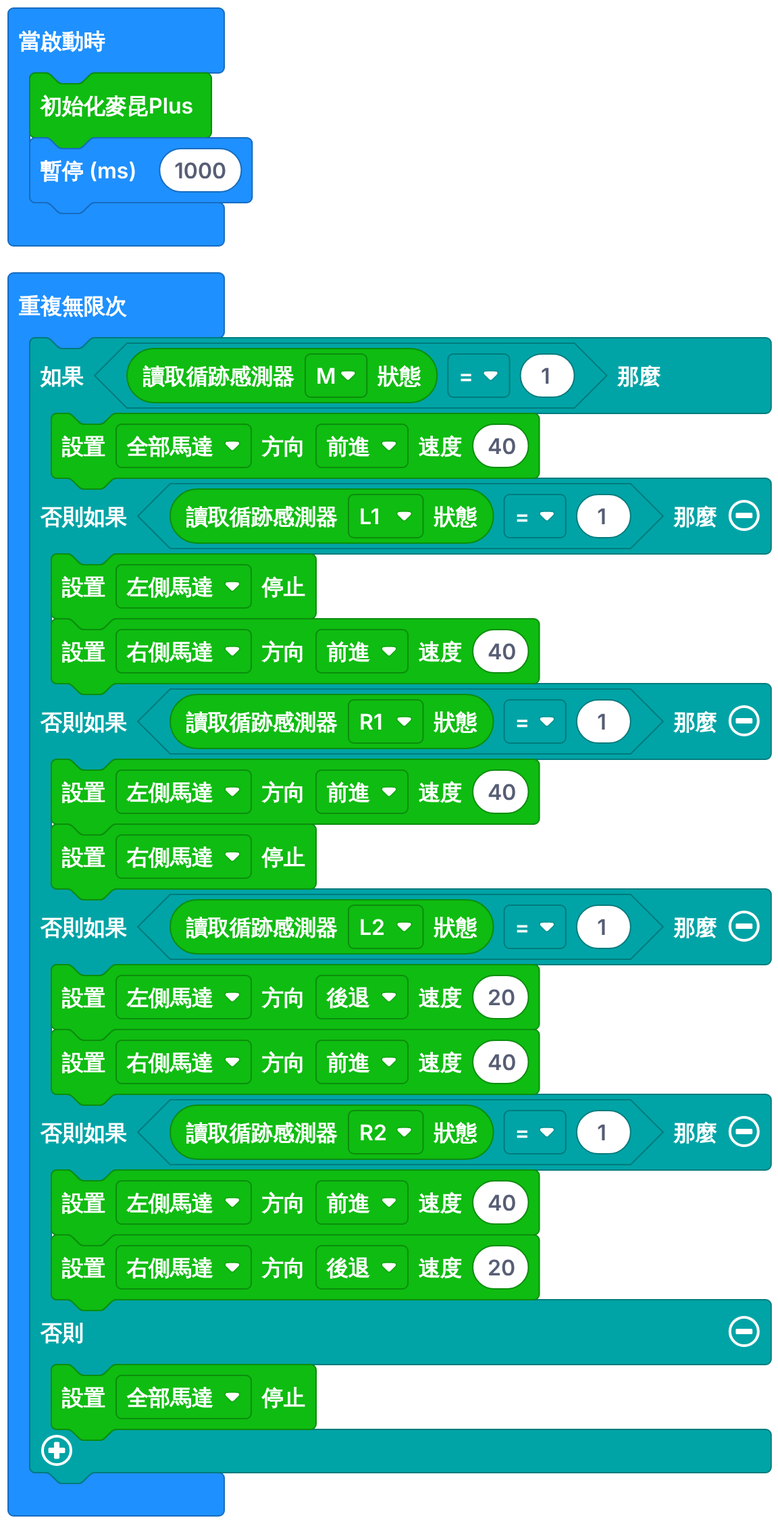
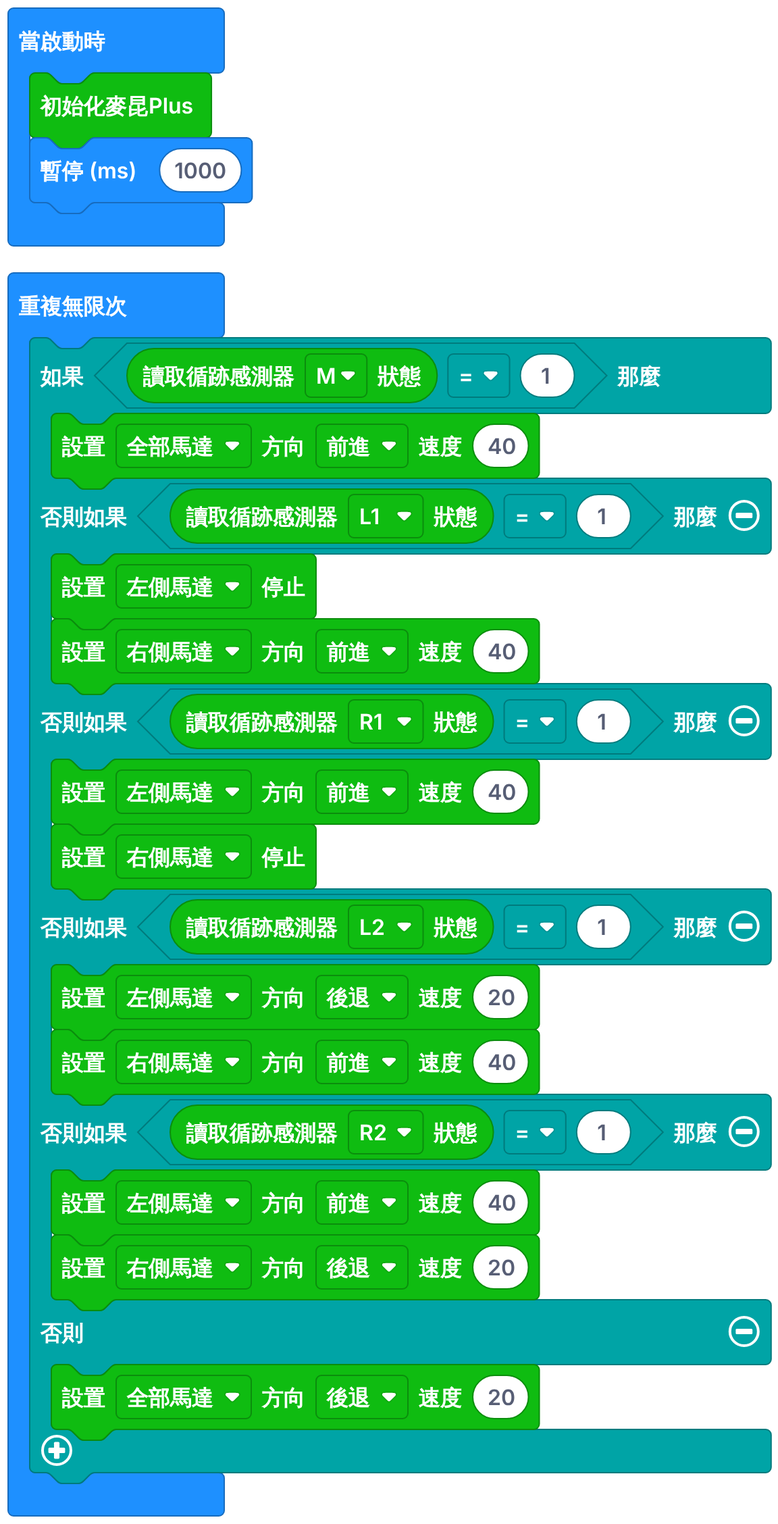
2.6.0：第四堂流程圖示範改為自動風扇、學生完成巡線流程圖、轉彎三種方法、脫線後退
Claude-Session: https://claude.ai/code/session_01PWnpwURraWMgYMftYHFkLk

Changed region(s): [[0.3438, 0.8688, 0.7188, 0.9619]]

diff --git a/L4/index.html b/L4/index.html
@@ -35,15 +35,15 @@
   <div class="goals" style="margin-top:14px">
     <b>完成今課後，你能夠：</b>
     <ol>
-      <li>認出流程圖的 4 個符號，看懂巡線程式的流程圖。</li>
-      <li>照流程圖砌出「分層修正」程式，令小車轉得更順。</li>
+      <li>認出流程圖的 4 個符號，完成上一課巡線程式的流程圖。</li>
+      <li>說出小車轉彎的 3 種方法，用「分層修正」令小車轉得更順，脫線時自己後退回黑線。</li>
     </ol>
   </div>
-  <p class="small muted">本課滿分 50 分：符號練習 10、測試記錄 15、老師驗收 25（圓滿完成 25／部分完成 15／未完成 5）。</p>
+  <p class="small muted">本課滿分 50 分：符號練習 5、巡線流程圖 10、測試記錄 10、老師驗收 25（圓滿完成 25／部分完成 15／未完成 5）。</p>
 </section>
 
 <section class="card" id="s1" data-short="流程圖的符號">
-  <header><span class="num">1</span><h2>流程圖的 4 個符號</h2><span class="marks">10 分</span></header>
+  <header><span class="num">1</span><h2>流程圖的 4 個符號</h2><span class="marks">5 分</span></header>
   <p>流程圖用<b>符號</b>和<b>箭頭</b>畫出程式的步驟，就像建屋前先畫圖則。</p>
   <div class="fig-row" id="legend"></div>
   <div class="tbl-wrap"><table>
@@ -55,46 +55,78 @@
       <tr><td>菱形</td><td>判斷</td><td>M ＝ 1 ？（一定有「是」和「否」兩條路）</td></tr>
     </tbody>
   </table></div>
-  <h3>練習：這個符號叫什麼？<span class="tag">10 分</span></h3>
+  <h3>練習：這個符號叫什麼？<span class="tag">5 分</span></h3>
   <div id="q-sym"></div>
 </section>
 
-<section class="card" id="s2" data-short="看懂巡線流程圖">
-  <header><span class="num">2</span><h2>看懂第三堂巡線程式的流程圖</h2></header>
-  <p>下面是上一課巡線程式的流程圖。用手指沿着箭頭走一次，再對照下面的程式。</p>
-  <figure class="fig zoomable"><div class="art fcwrap" id="flow"></div><figcaption>第三堂巡線程式的流程圖</figcaption></figure>
-  <figure class="fig narrow zoomable"><div class="art"><img src="../assets/img/blocks-line.png" alt="第三堂巡線程式"></div><figcaption>第三堂巡線程式（和上面的流程圖意思一樣）</figcaption></figure>
-  <div class="callout key"><span class="ttl">看流程圖的兩個重點</span>① 菱形一個接一個：M 答「否」才問 L1，L1 答「否」才問 R1 ——這就是「否則如果」。② 箭頭回到上方 ＝「重複無限次」。</div>
+<section class="card" id="s2" data-short="流程圖示範">
+  <header><span class="num">2</span><h2>流程圖示範：自動風扇</h2></header>
+  <p>自動風扇：太熱就開風扇，不熱就關風扇，而且要不停檢查溫度。用手指沿着箭頭走一次。</p>
+  <figure class="fig zoomable"><div class="art fcwrap" id="fan"></div><figcaption>自動風扇的流程圖</figcaption></figure>
+  <ol>
+    <li><b>開始</b>（圓角長方形）。</li>
+    <li><b>讀取溫度</b>（平行四邊形）：由感應器取得資料，是輸入。</li>
+    <li><b>溫度 &gt; 28？</b>（菱形）：答「是」走右邊去開風扇；答「否」走下面去關風扇。</li>
+    <li>做完後，箭頭<b>回到「讀取溫度」</b>，不停重複 ＝「重複無限次」。</li>
+  </ol>
+  <div class="callout key"><span class="ttl">記住</span>菱形一定有「是」和「否」兩條路；箭頭回到上方就是不停重複。</div>
 </section>
 
-<section class="card" id="s3" data-short="分層修正">
-  <header><span class="num">3</span><h2>新任務：分層修正，令小車轉得更順</h2></header>
-  <p>上一課的小車每次修正都「一邊後退」急轉，車身左右急擺。如果車上放了一杯水，水會瀉出來！</p>
-  <div class="callout key"><span class="ttl">分層修正</span>偏<b>少少</b>（L1／R1 看到黑線）→ 輕輕轉：<b>一邊停、一邊行</b>。<br>偏<b>很多</b>（L2／R2 看到黑線）→ 急轉：<b>一邊後退、一邊前進</b>。</div>
+<section class="card" id="s3" data-short="畫巡線流程圖">
+  <header><span class="num">3</span><h2>練習：完成上一課巡線程式的流程圖</h2><span class="marks">10 分</span></header>
+  <p>下面是上一課的巡線程式。流程圖的形狀已經畫好，請在表格為每個空格揀選內容，流程圖會即時顯示。</p>
+  <figure class="fig narrow zoomable"><div class="art"><img src="../assets/img/blocks-line.png" alt="第三堂巡線程式"></div><figcaption>上一課的巡線程式</figcaption></figure>
+  <figure class="fig zoomable"><div class="art fcwrap" id="flow"></div><figcaption>巡線程式的流程圖（你的答案會即時顯示）</figcaption></figure>
+  <div id="q-flow"></div>
+  <div class="callout tip">提示：菱形放問題（M、L1、R1 ＝ 1？），次序和程式一樣；三個菱形都答「否」，就走到最後的「否則」。</div>
+</section>
+
+<section class="card" id="s4" data-short="轉彎方法及分層修正">
+  <header><span class="num">4</span><h2>新任務：轉彎的方法及分層修正</h2></header>
+  <h3>小車轉彎的 3 種方法（以向左轉為例）</h3>
+  <p>只要令左右兩個馬達<b>輸出不同</b>，小車就會轉彎。輸出相差越大，轉得越急。</p>
+  <div class="fig-row">
+    <figure class="fig"><div class="art" id="tp1"></div><figcaption>① 一邊慢、一邊快：輕輕轉（大弧線）</figcaption></figure>
+    <figure class="fig"><div class="art" id="tp2"></div><figcaption>② 一邊停、一邊行：中等</figcaption></figure>
+    <figure class="fig"><div class="art" id="tp3"></div><figcaption>③ 一邊後退、一邊前進：急轉（接近原地轉）</figcaption></figure>
+  </div>
+  <div class="tbl-wrap"><table>
+    <thead><tr><th>方法</th><th>左側馬達</th><th>右側馬達</th><th>轉得</th></tr></thead>
+    <tbody>
+      <tr><td>① 一邊慢、一邊快</td><td>前進 20</td><td>前進 40</td><td>最輕</td></tr>
+      <tr><td>② 一邊停、一邊行</td><td>停止</td><td>前進 40</td><td>中等</td></tr>
+      <tr><td>③ 一邊後退、一邊前進</td><td>後退 20</td><td>前進 40</td><td>最急</td></tr>
+    </tbody>
+  </table></div>
+  <p class="small muted">向右轉就把左右調轉。上一課只用了 ③，所以車身左右急擺。</p>
+
+  <h3>分層修正：偏少少輕輕轉，偏很多才急轉</h3>
+  <p>如果車上放了一杯水，左右急擺會令水瀉出來。今課用 5 個感應器，按偏離多少揀轉彎方法：</p>
   <div class="tbl-wrap"><table>
     <thead><tr><th>感應器</th><th>代表</th><th>馬達</th></tr></thead>
     <tbody>
       <tr><td>M ＝ 1</td><td>正中</td><td>全部馬達 前進 40</td></tr>
-      <tr><td>L1 ＝ 1</td><td>偏少少（黑線在左）</td><td>左側 停止、右側 前進 40</td></tr>
-      <tr><td>R1 ＝ 1</td><td>偏少少（黑線在右）</td><td>左側 前進 40、右側 停止</td></tr>
-      <tr><td>L2 ＝ 1</td><td>偏很多（黑線在左）</td><td>左側 後退 20、右側 前進 40</td></tr>
-      <tr><td>R2 ＝ 1</td><td>偏很多（黑線在右）</td><td>左側 前進 40、右側 後退 20</td></tr>
-      <tr><td>都是 0</td><td>脫線</td><td>全部馬達 停止</td></tr>
+      <tr><td>L1 ＝ 1</td><td>偏少少（黑線在左）</td><td>② 左側 停止、右側 前進 40</td></tr>
+      <tr><td>R1 ＝ 1</td><td>偏少少（黑線在右）</td><td>② 左側 前進 40、右側 停止</td></tr>
+      <tr><td>L2 ＝ 1</td><td>偏很多（黑線在左）</td><td>③ 左側 後退 20、右側 前進 40</td></tr>
+      <tr><td>R2 ＝ 1</td><td>偏很多（黑線在右）</td><td>③ 左側 前進 40、右側 後退 20</td></tr>
+      <tr><td>都是 0（否則）</td><td>脫線</td><td><b>全部馬達 後退 20</b></td></tr>
     </tbody>
   </table></div>
+  <div class="callout key"><span class="ttl">「否則」由停止改為後退</span>上一課脫線就停車。今課改為<b>後退</b>：小車退回去，感應器會再看到黑線，然後繼續走，不用人手幫忙。</div>
   <figure class="fig zoomable"><div class="art fcwrap" id="tier"></div><figcaption>分層修正的流程圖</figcaption></figure>
-  <figure class="fig narrow zoomable"><div class="art"><img src="../assets/img/blocks-tier.png" alt="分層修正程式：如果M=1前進40；否則如果L1=1左停止右前進40；否則如果R1=1左前進40右停止；否則如果L2=1左後退20右前進40；否則如果R2=1左前進40右後退20；否則停止"></div><figcaption>分層修正程式</figcaption></figure>
+  <figure class="fig narrow zoomable"><div class="art"><img src="../assets/img/blocks-tier.png" alt="分層修正程式：如果M=1前進40；否則如果L1=1左停止右前進40；否則如果R1=1左前進40右停止；否則如果L2=1左後退20右前進40；否則如果R2=1左前進40右後退20；否則全部馬達後退20"></div><figcaption>分層修正程式</figcaption></figure>
   <div class="step"><h4><span class="sn">1</span>修改上一課的程式</h4>
     <ol><li>開啟 <a href="https://makecode.microbit.org/" target="_blank" rel="noopener"><b>makecode.microbit.org</b></a>，打開上一課的專案。如果要開新專案（名稱：<code class="pname">班別_學號_flowbot</code>），先按「<b>擴展</b>」，按下面的「複製」，在搜尋欄按 <b>Ctrl＋V</b> 貼上，按 Enter，選 <b>maqueenPlusV2</b>。<div class="copybox" data-copy="https://github.com/DFRobot/pxt-DFRobot_MaqueenPlus_v20"></div></li>
       <li>在「如果」積木按 ⊕ 兩次，多加兩個「否則如果」，放入 L2 和 R2。</li>
-      <li>照上面的程式圖改馬達：L1／R1 改成「一邊停止」，直行改成 40。</li></ol></div>
+      <li>照上面的程式圖改馬達：直行改成 40；L1／R1 改成「一邊停止」；「否則」改成「全部馬達 後退 20」。</li></ol></div>
   <div class="step"><h4><span class="sn">2</span>校準、下載、測試</h4>
     <p>和上一課一樣：校準 → 下載 → 放在巡線圖上（黑線在車底正中）→ 開電源。</p></div>
   <div class="callout safe">在地面測試；懸空會令感應器讀到 1，小車會繼續向前。</div>
 </section>
 
-<section class="card" id="s4" data-short="測試記錄">
-  <header><span class="num">4</span><h2>測試記錄</h2><span class="marks">15 分</span></header>
+<section class="card" id="s5" data-short="測試記錄">
+  <header><span class="num">5</span><h2>測試記錄</h2><span class="marks">10 分</span></header>
   <p>每試一次填一行，最後一欄會告訴你下一次改什麼。至少記錄 <b>3 次</b>。</p>
   <div id="tierlog"></div>
   <h3>出了問題？</h3>
@@ -103,13 +135,14 @@
     <tbody>
       <tr><td>L1／R1 時推不動</td><td>直行速度加到 50</td></tr>
       <tr><td>急彎衝出黑線</td><td>L2／R2 有沒有用「一邊後退」？左右有沒有調轉？</td></tr>
+      <tr><td>脫線後一直後退，回不到黑線</td><td>後退速度減到 10；放車時黑線要在車底正中</td></tr>
       <tr><td>只會前進，不會修正</td><td>要用「否則如果」，次序是 M → L1 → R1 → L2 → R2</td></tr>
     </tbody>
   </table></div>
 </section>
 
-<section class="card" id="s5" data-short="老師驗收">
-  <header><span class="num">5</span><h2>老師驗收</h2><span class="marks">25 分</span></header>
+<section class="card" id="s6" data-short="老師驗收">
+  <header><span class="num">6</span><h2>老師驗收</h2><span class="marks">25 分</span></header>
   <p>小車走完一圈，而且轉彎比上一課順（或已盡力），就請老師來看，老師會揀選結果。</p>
   <div id="verify"></div>
   <div id="mclink" style="margin-top:12px"></div>
@@ -117,12 +150,13 @@
   <p>在巡線圖貼一條橫線做「車站」：L1、M、R1 都 ＝ 1 時停車 3 秒，再繼續。這個菱形要放在第幾個？</p>
 </section>
 
-<section class="card" id="s6" data-short="學習日誌">
-  <header><span class="num">6</span><h2>總結及學習日誌</h2></header>
+<section class="card" id="s7" data-short="學習日誌">
+  <header><span class="num">7</span><h2>總結及學習日誌</h2></header>
   <ol>
     <li>流程圖：圓角＝開始，長方形＝動作，平行四邊形＝輸入，菱形＝判斷。</li>
     <li>菱形一個接一個 ＝「否則如果」；箭頭回到上方 ＝「重複無限次」。</li>
-    <li>分層修正：偏少少輕輕轉，偏很多才急轉。</li>
+    <li>轉彎 3 種方法：一邊慢一邊快、一邊停一邊行、一邊後退一邊前進。</li>
+    <li>分層修正：偏少少輕輕轉，偏很多才急轉；脫線就後退。</li>
   </ol>
   <h3>學習日誌（不計分）</h3>
   <p class="small muted">分層修正和上一課的程式比較，小車走起來有什麼不同？</p>
@@ -156,30 +190,61 @@ document.getElementById('legend').innerHTML = LEG.map(function (l) {
 }).join('');
 function shapePic(k) { var h = k === 'dec' ? 80 : 52; return '<svg viewBox="0 0 220 110" xmlns="http://www.w3.org/2000/svg"><rect width="220" height="110" fill="#fff"/>' + A.fcShape(k, 110, 55, 170, h, [], { palette: 'grey' }) + '</svg>'; }
 var KIND = [{ v: 'T', t: '開始／結束' }, { v: 'P', t: '處理（動作）' }, { v: 'IO', t: '輸入／輸出' }, { v: 'D', t: '判斷' }];
-F1.choice('#q-sym', { key: 'sym', label: '1. 符號辨認', sec: 's1', max: 10, shuffle: true, options: KIND, items: [
+F1.choice('#q-sym', { key: 'sym', label: '1. 符號辨認', sec: 's1', max: 5, shuffle: true, options: KIND, items: [
   { id: 'a1', title: '這個符號叫什麼？', pic: shapePic('dec'), answer: 'D', why: '菱形＝判斷，一定有「是／否」兩條路。' },
   { id: 'a2', title: '這個符號叫什麼？', pic: shapePic('term'), answer: 'T', why: '圓角長方形＝開始／結束。' },
   { id: 'a3', title: '這個符號叫什麼？', pic: shapePic('io'), answer: 'IO', why: '平行四邊形＝輸入／輸出，例如讀取感應器。' },
   { id: 'a4', title: '這個符號叫什麼？', pic: shapePic('proc'), answer: 'P', why: '長方形＝處理（動作），例如設置馬達。' }] });
 
-/* ---- 2 第三堂程式的流程圖（完整） ---- */
+/* ---- 2 示範：自動風扇 ---- */
 (function () {
+  var p = 'fan' + A.uid() + '_', s = '<svg viewBox="0 0 700 400" xmlns="http://www.w3.org/2000/svg">' + A.markers(p);
+  s += A.fcArrow(p, '170,52 170,84') + A.fcArrow(p, '170,135 170,169') + A.fcArrow(p, '270,210 402,210', '是', 300, 201) + A.fcArrow(p, '170,250 170,284', '否', 178, 272);
+  s += A.fcLine('575,210 640,210') + A.fcLine('170,335 170,362') + A.fcArrow(p, '640,210 640,362 40,362 40,110 67,110');
+  s += A.fcShape('term', 170, 32, 160, 40, ['開始']) + A.fcShape('io', 170, 110, 200, 50, ['讀取溫度']) + A.fcShape('dec', 170, 210, 200, 80, ['溫度 > 28 ？']);
+  s += A.fcShape('proc', 490, 210, 170, 50, ['開風扇']) + A.fcShape('proc', 170, 310, 170, 50, ['關風扇']);
+  s += A.text(350, 390, '↑ 回到「讀取溫度」：不停重複', 13, '#5f6f82', 'middle', 600);
+  document.getElementById('fan').innerHTML = s + '</svg>';
+})();
+
+/* ---- 3 練習：巡線程式的流程圖 ---- */
+var FLOW = [
+  { kind: 'io', t: '讀取 L1、M、R1', d: ['讀取 L1、M、R1'] },
+  { kind: 'dec', t: 'M ＝ 1 ？', d: ['M = 1 ？'] }, { kind: 'proc', t: '全部馬達 前進 20', d: ['全部馬達', '前進 20'] },
+  { kind: 'dec', t: 'L1 ＝ 1 ？', d: ['L1 = 1 ？'] }, { kind: 'proc', t: '左側 後退 10、右側 前進 20', d: ['左側 後退 10', '右側 前進 20'] },
+  { kind: 'dec', t: 'R1 ＝ 1 ？', d: ['R1 = 1 ？'] }, { kind: 'proc', t: '左側 前進 20、右側 後退 10', d: ['左側 前進 20', '右側 後退 10'] },
+  { kind: 'proc', t: '全部馬達 停止', d: ['全部馬達 停止'] }];
+var FEX = [{ t: '結束', d: ['結束'] }, { t: '全部馬達 後退 20', d: ['全部馬達', '後退 20'] }];
+var FALL = FLOW.concat(FEX);
+var KN = { proc: '長方形（動作）', io: '平行四邊形（輸入）', dec: '菱形（判斷）' };
+var POS = [[210, 254, 240, 56], [210, 352, 210, 82], [565, 352, 215, 56], [210, 464, 210, 82], [565, 464, 215, 56], [210, 576, 210, 82], [565, 576, 215, 56], [210, 674, 210, 48]];
+function drawFlow(picked, marks) {
   var p = 'fl' + A.uid() + '_', s = '<svg viewBox="0 0 790 790" xmlns="http://www.w3.org/2000/svg">' + A.markers(p);
   s += A.fcArrow(p, '210,53 210,80') + A.fcArrow(p, '210,130 210,154') + A.fcArrow(p, '210,204 210,224') + A.fcArrow(p, '210,282 210,309');
   [352, 464, 576].forEach(function (y) { s += A.fcArrow(p, '315,' + y + ' 455,' + y, '是', 334, y - 9) + A.fcLine('672,' + y + ' 730,' + y); });
   s += A.fcArrow(p, '210,393 210,421', '否', 219, 412) + A.fcArrow(p, '210,505 210,533', '否', 219, 524) + A.fcArrow(p, '210,617 210,648', '否', 219, 636);
   s += A.fcLine('210,698 210,742') + A.fcArrow(p, '730,352 730,742 40,742 40,254 87,254');
   s += A.fcShape('term', 210, 32, 210, 42, ['開始']) + A.fcShape('proc', 210, 106, 210, 48, ['初始化麥昆Plus']) + A.fcShape('proc', 210, 180, 210, 48, ['暫停 1000']);
-  s += A.fcShape('io', 210, 254, 240, 56, ['讀取 L1、M、R1']);
-  s += A.fcShape('dec', 210, 352, 210, 82, ['M = 1 ？']) + A.fcShape('proc', 565, 352, 215, 56, ['全部馬達', '前進 20']);
-  s += A.fcShape('dec', 210, 464, 210, 82, ['L1 = 1 ？']) + A.fcShape('proc', 565, 464, 215, 56, ['左側 後退 10', '右側 前進 20']);
-  s += A.fcShape('dec', 210, 576, 210, 82, ['R1 = 1 ？']) + A.fcShape('proc', 565, 576, 215, 56, ['左側 前進 20', '右側 後退 10']);
-  s += A.fcShape('proc', 210, 674, 210, 48, ['全部馬達 停止']);
   s += A.text(400, 768, '↑ 回到「讀取」：重複無限次', 13, '#5f6f82', 'middle', 600);
+  POS.forEach(function (q, i) {
+    var v = picked && picked[i], o = {}, lines;
+    if (v !== undefined && v !== '') lines = FALL[+v].d; else { lines = ['(' + (i + 1) + ')']; o = { fill: '#f7f9fc', stroke: '#a9b8cc', dash: true, size: 17, tcolor: '#7b8a9c' }; }
+    if (marks && marks[i] === true) o.stroke = '#1f9d55';
+    if (marks && marks[i] === false) { o.stroke = '#d63a3a'; o.fill = '#fdeaea'; }
+    s += A.fcShape(FLOW[i].kind, q[0], q[1], q[2], q[3], lines, o) + A.fcNum(q[0] + q[2] / 2 - 4, q[1] - q[3] / 2 + 4, i + 1);
+  });
   document.getElementById('flow').innerHTML = s + '</svg>';
-})();
+}
+F1.match('#q-flow', { key: 'flow', label: '2. 巡線程式的流程圖', sec: 's3', max: 10, head: ['空格（形狀）', '內容'],
+  hint: '先看形狀（菱形＝問題），再對照上面的程式，由上至下填。',
+  rows: FLOW.map(function (f, i) { return { html: '<b>(' + (i + 1) + ')</b> ' + KN[f.kind], label: '空格 (' + (i + 1) + ')：' + KN[f.kind], answer: String(i) }; }),
+  options: FALL.map(function (f, i) { return { v: String(i), t: f.t }; }),
+  onChange: drawFlow });
 
-/* ---- 3 分層修正流程圖（完整） ---- */
+/* ---- 4 轉彎方法及分層修正流程圖 ---- */
+document.getElementById('tp1').innerHTML = A.turnPanel(1);
+document.getElementById('tp2').innerHTML = A.turnPanel(2);
+document.getElementById('tp3').innerHTML = A.turnPanel(3);
 (function () {
   var TACT = [['全部馬達', '前進 40'], ['左側 停止', '右側 前進 40'], ['左側 前進 40', '右側 停止'], ['左側 後退 20', '右側 前進 40'], ['左側 前進 40', '右側 後退 20']];
   var TDEC = ['M = 1 ？', 'L1 = 1 ？', 'R1 = 1 ？', 'L2 = 1 ？', 'R2 = 1 ？'];
@@ -196,7 +261,7 @@ F1.choice('#q-sym', { key: 'sym', label: '1. 符號辨認', sec: 's1', max: 10, 
     s += A.fcShape('proc', 565, y, 230, 56, TACT[k]);
   }
   var ys = y0 + 5 * dy - 22;
-  s += A.fcShape('proc', 210, ys + 26, 230, 52, ['全部馬達', '停止']);
+  s += A.fcShape('proc', 210, ys + 26, 230, 52, ['全部馬達', '後退 20'], { stroke: '#e08600' });
   s += A.fcLine('210,' + (ys + 52) + ' 210,' + (ys + 84)) + A.fcArrow(p, '740,' + y0 + ' 740,' + (ys + 84) + ' 40,' + (ys + 84) + ' 40,166 82,166');
   s += A.text(400, ys + 108, '↑ 回到「讀取」：重複無限次', 13, '#5f6f82', 'middle', 600);
   document.getElementById('tier').innerHTML = s + '</svg>';
@@ -204,7 +269,7 @@ F1.choice('#q-sym', { key: 'sym', label: '1. 符號辨認', sec: 's1', max: 10, 
 
 /* ---- 4 測試記錄 ---- */
 var TR = [{ v: 'ok', t: '順利走完，轉彎順 ✔' }, { v: 'stuck', t: 'L1／R1 時推不動' }, { v: 'out', t: '急彎衝出黑線' }, { v: 'swing', t: '仍然左右急擺' }];
-F1.trials('#tierlog', { key: 'tierlog', label: '2. 分層修正測試記錄', max: 15, sec: 's4', minRows: 3,
+F1.trials('#tierlog', { key: 'tierlog', label: '3. 分層修正測試記錄', max: 10, sec: 's5', minRows: 3,
   cols: [{ k: 'sp', label: '直行速度', type: 'number', ph: '40', w: '6em' }, { k: 'back', label: '後退速度', type: 'number', ph: '20', w: '6em' },
     { k: 'jd', label: '結果', type: 'select', options: TR, w: '12em' }],
   example: ['40', '20', 'L1／R1 時推不動', '直行改 50'],
@@ -218,9 +283,9 @@ F1.trials('#tierlog', { key: 'tierlog', label: '2. 分層修正測試記錄', ma
   carry: function (last, nr) { var sp = parseFloat(last.sp), bk = parseFloat(last.back); if (sp > 0) { nr.sp = String(last.jd === 'stuck' || last.jd === 'ok' ? sp + 10 : sp); nr.back = String(last.jd === 'out' && bk > 0 ? bk + 5 : (bk || 20)); } },
   complete: function (r) { return String(r.sp || '').trim() && r.jd; } });
 
-F1.verify('#verify', { key: 'real', label: '3. 真車分層修正（老師驗收）', what: '真車用分層修正程式走巡線圖一圈', max: 25, sec: 's5', levels: [{ v: 'full', t: '圓滿完成', s: 25, d: '走完一圈，轉彎比上一課順' }, { v: 'part', t: '部分完成', s: 15, d: '走完一圈，但仍左右急擺' }, { v: 'none', t: '未完成', s: 5, d: '未能走完一圈（參與分）' }] });
-F1.mclink('#mclink', { key: 'link', sec: 's5' });
-F1.text('#log', { key: 'log', label: '學習日誌', max: 0, min: 5, sec: 's6', placeholder: '例：分層修正轉彎時車身比較穩，不會左右急擺。' });
+F1.verify('#verify', { key: 'real', label: '4. 真車分層修正（老師驗收）', what: '真車用分層修正程式走巡線圖一圈', max: 25, sec: 's6', levels: [{ v: 'full', t: '圓滿完成', s: 25, d: '走完一圈，轉彎比上一課順' }, { v: 'part', t: '部分完成', s: 15, d: '走完一圈，但仍左右急擺' }, { v: 'none', t: '未完成', s: 5, d: '未能走完一圈（參與分）' }] });
+F1.mclink('#mclink', { key: 'link', sec: 's6' });
+F1.text('#log', { key: 'log', label: '學習日誌', max: 0, min: 5, sec: 's7', placeholder: '例：分層修正轉彎時車身比較穩，不會左右急擺。' });
 
 function pname() { var s = F1.stu || {}; F1.$$('.pname').forEach(function (e) { e.textContent = (s.cls || '班別') + '_' + (s.num || '學號') + '_flowbot'; }); }
 pname(); document.addEventListener('input', function (e) { if (e.target.id === 'f_cls' || e.target.id === 'f_num') pname(); });

diff --git a/teacher/index.html b/teacher/index.html
@@ -167,25 +167,27 @@
     <header><h2>第四堂：流程圖與分層修正</h2></header>
     <ul>
       <li>1–2 人一組，交一份報告。不用模擬器。</li>
-      <li>只教 4 個符號；第三堂程式及分層修正都直接給完整流程圖和程式圖，學生照圖修改上一課的程式。</li>
+      <li>流程圖先用「自動風扇」示範，學生再自己完成上一課巡線程式的流程圖（形狀已畫好，只揀內容）。</li>
+      <li>任務先教轉彎 3 種方法，再做分層修正；「否則」由停止改為後退，令小車脫線後自己退回黑線。</li>
     </ul>
     <h3>課堂流程建議（2 × 40 分鐘）</h3>
     <ol>
-      <li>4 個符號及練習 15 分。</li>
-      <li>看懂第三堂的流程圖 10 分：全班用手指沿箭頭走一次；講「否則如果」和「重複無限次」。</li>
-      <li>分層修正 15 分：用「車上放一杯水」的故事引入；照圖修改程式。</li>
-      <li>校準、測試、記錄 30 分；老師驗收 10 分。</li>
+      <li>4 個符號及練習 10 分；自動風扇示範 5 分（全班用手指沿箭頭走一次）。</li>
+      <li>完成巡線程式流程圖 10 分。</li>
+      <li>轉彎 3 種方法 10 分：可用真車示範三種馬達組合。</li>
+      <li>分層修正：修改程式、校準、測試、記錄 35 分；老師驗收 10 分。</li>
     </ol>
     <h3>評分（50 分）</h3>
-    <p>符號練習 10、測試記錄 15（至少 3 次）、老師驗收 25（圓滿完成 25／部分完成 15／未完成 5）。學習日誌不計分。</p>
+    <p>符號練習 5、巡線流程圖 10、測試記錄 10（至少 3 次）、老師驗收 25（圓滿完成 25／部分完成 15／未完成 5）。學習日誌不計分。</p>
     <h3>答案</h3>
     <table class="ans"><tbody>
       <tr><td>符號</td><td>菱形—判斷；圓角長方形—開始／結束；平行四邊形—輸入／輸出；長方形—處理</td></tr>
+      <tr><td>巡線流程圖</td><td>(1) 讀取 L1、M、R1 (2) M＝1？ (3) 全部馬達 前進 20 (4) L1＝1？ (5) 左側 後退 10、右側 前進 20 (6) R1＝1？ (7) 左側 前進 20、右側 後退 10 (8) 全部馬達 停止（干擾項：結束、全部馬達 後退 20）</td></tr>
     </tbody></table>
     <h3>教學提示</h3>
     <ul>
       <li>直行速度要 40 或以上：太慢的話，「一邊停」時另一邊馬達推不動，記錄表會建議加到 50。</li>
-      <li>模擬器急彎挑戰圖：第三堂程式急轉約 100 次以上；分層修正約 10–30 次，圈速差不多。</li>
+      <li>脫線後退：後退太快可能退過頭，記錄表／除錯表建議把後退速度減到 10。</li>
       <li>挑戰「車站」：全黑的判斷要放在<b>第一個</b>，否則 M ＝ 1 會先成立。</li>
     </ul>
   </section>

diff --git a/assets/config.js b/assets/config.js
@@ -5,6 +5,6 @@ window.F1CONFIG = {
   TEACHER_PIN: 'dt2026',             // 老師驗收及老師區密碼（與中二單元相同；請自行更改）
   SIGN_KEY: ['F1', 'Robot', 'DT', 'maqueen', '8Kp', '2026'].join('~'),   // 成績報告驗證密鑰（改了之後舊報告會驗證失敗）
   APP: 'F1-DT-Robotics',
-  VERSION: '2.5.0',
+  VERSION: '2.6.0',
   IDLE_MINUTES: 20                   // 離開多久後再開頁，會問「你是 XXX 嗎？」（共用電腦用）
 };

diff --git a/tools/test_site.py b/tools/test_site.py
@@ -181,7 +181,15 @@ with sync_playwright() as p:
     check(pg.locator('#map svg').count() == 1, 'O 形巡線圖')
     pg.goto(U('L4/index.html')); pg.wait_for_timeout(400)
     check(pg.locator('iframe').count() == 0, '第四堂沒有模擬器')
-    check('左側 後退 10' in pg.inner_text('#flow') and '左側 後退 20' in pg.inner_text('#tier'), '兩個完整流程圖')
+    check('溫度' in pg.inner_text('#fan'), '流程圖示範：自動風扇')
+    check(pg.locator('#tp1 svg, #tp2 svg, #tp3 svg').count() == 3, '轉彎 3 種方法圖')
+    check('後退 20' in pg.inner_text('#tier') and pg.inner_text('#tier').count('全部馬達') >= 2, '分層修正流程圖：否則改為後退')
+    ans = ['讀取 L1、M、R1', 'M ＝ 1', '全部馬達 前進 20', 'L1 ＝ 1', '左側 後退 10、右側 前進 20', 'R1 ＝ 1', '左側 前進 20、右側 後退 10', '全部馬達 停止']
+    rows = pg.locator('#q-flow tbody tr')
+    for i, w in enumerate(ans): rows.nth(i).locator('.pick').click(); pick_sheet(pg, w)
+    pg.locator('#s3 .btnrow .btn.primary').first.click()
+    check('8 / 8' in pg.inner_text('#s3'), '巡線流程圖練習全對')
+    check('左側 後退 10' in pg.inner_text('#flow'), '流程圖即時顯示學生答案')
     card = pg.locator('#q-sym .qcard').first; card.locator('.opt').first.click()
     check(len(card.locator('.fbx').inner_text().strip()) > 0, '符號練習可作答')
     r0 = pg.locator('#tierlog tr.r').nth(0)

diff --git a/tools/render_blocks.py b/tools/render_blocks.py
@@ -24,7 +24,7 @@ TIER = """(function(){var c=X.cond, m=X.motor, s=X.stop;
  '<value name="IF2">'+c(3)+'</value><statement name="DO2">'+m('L','1',40,s('R'))+'</statement>'+
  '<value name="IF3">'+c(0)+'</value><statement name="DO3">'+m('L','-1',20,m('R','1',40))+'</statement>'+
  '<value name="IF4">'+c(4)+'</value><statement name="DO4">'+m('L','1',40,m('R','-1',20))+'</statement>'+
- '<statement name="ELSE">'+s('A')+'</statement></block>';
+ '<statement name="ELSE">'+m('A','-1',20)+'</statement></block>';
  return X.x(X.start(X.init(X.pause(1000))) + X.forever(b,30,170));})()"""
 PROGS['blocks-tier'] = TIER
 with sync_playwright() as p:

diff --git a/CHANGELOG.md b/CHANGELOG.md
@@ -1,5 +1,10 @@
 # 版本記錄
 
+## 2.6.0（2026-10-22）
+- 第四堂：流程圖示範改用「自動風扇」；學生練習改為完成上一課巡線程式的流程圖（形狀已畫好，揀內容，10 分）。
+- 第四堂任務先教轉彎 3 種方法（一邊慢一邊快、一邊停一邊行、一邊後退一邊前進，附圖及馬達設定），再做分層修正；「否則」由停止改為「全部馬達 後退 20」，脫線後自己退回黑線。流程圖、程式圖及除錯表同步更新。
+- 第四堂分數：符號 5、巡線流程圖 10、測試記錄 10、老師驗收 25。
+
 ## 2.5.0（2026-10-14）
 - 第二至四堂刪除「自我檢查」。
 - 老師驗收改為三級：圓滿完成、部分完成、未完成（未完成有少量參與分），老師揀選後輸入密碼；可再按另一級修改。報告及成績匯總會顯示驗收結果。
